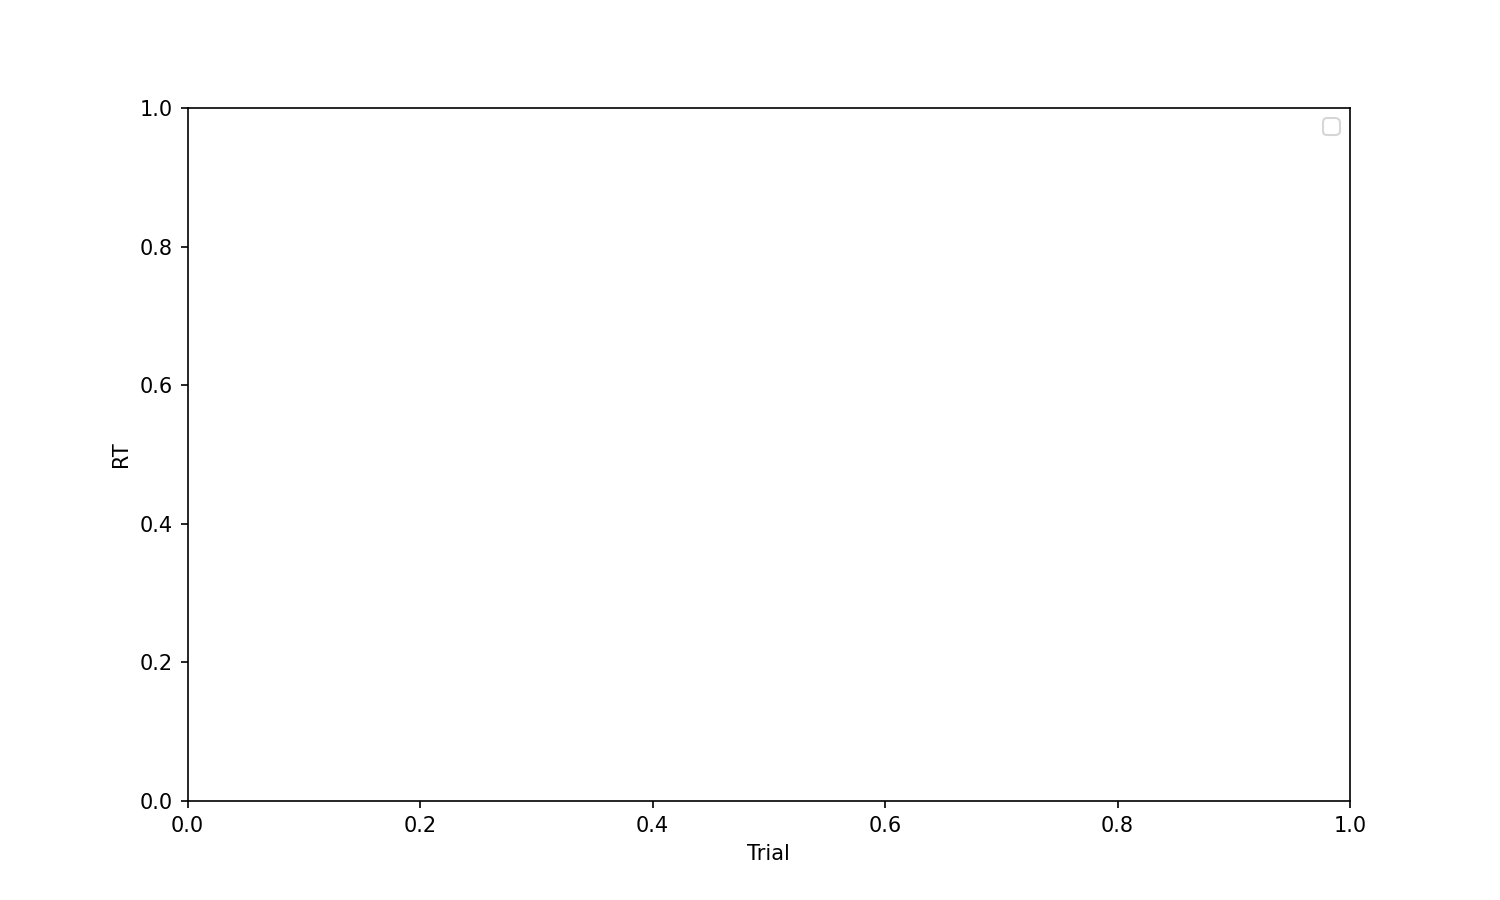
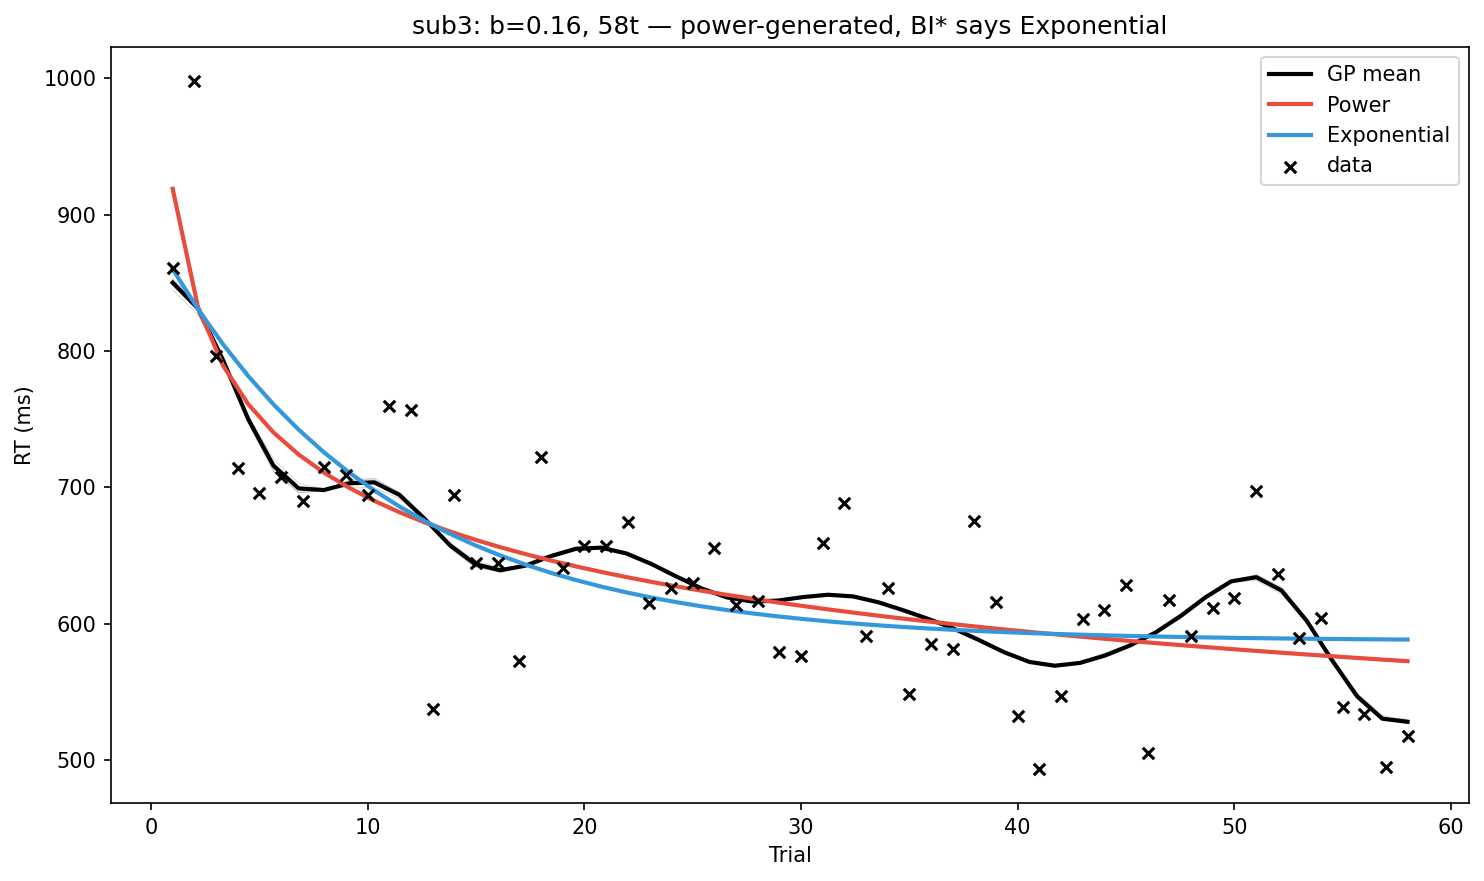
hmc attempts

diff --git a/experiments/practice_EvansEtAL/diag_hmc.py b/experiments/practice_EvansEtAL/diag_hmc.py
@@ -1,0 +1,122 @@
+"""HMC diagnostic: sub0 (correct) vs sub3 (wrong under MAP)."""
+import numpy as np
+import torch
+import sys
+import matplotlib
+matplotlib.use('Agg')
+import matplotlib.pyplot as plt
+from pathlib import Path
+
+sys.path.insert(0, str(Path(__file__).resolve().parent.parent.parent))
+
+from candidates import build_core_candidates
+from kernels import (
+    PRACTICE_CONFIGS, build_kernel, build_likelihood,
+    get_kernel_builder, get_likelihood_builder,
+)
+from bistar_gp.model import build_model
+from bistar_gp.fit import fit_map, fit_hmc
+from bistar_gp.bms_star import (
+    extract_gp_predictives, compute_G_matrix, GPPosteriorSample,
+)
+from run import generate_demo_data, normalize
+
+curves = generate_demo_data(50)
+
+for i in [0, 3]:
+    print(f"\n{'='*60}")
+    print(f"Subject {i} ({curves[i].n_trials}t)")
+    print(f"{'='*60}")
+
+    curve = curves[i]
+    nc = normalize(curve)
+
+    x_train = torch.tensor(nc.x).double()
+    y_train = torch.tensor(nc.y).double()
+    x_eval_norm = torch.linspace(0, 1, 50).double()
+    x_eval_raw = x_eval_norm.numpy() * (nc.x_max - nc.x_min) + nc.x_min
+
+    # Candidates on raw
+    candidates = build_core_candidates()
+    crs = []
+    for c in candidates:
+        c.fit(nc.x_raw, nc.y_raw)
+        pred = c.predict(x_eval_raw)
+        crs.append(pred)
+        print(f"  {c.name}: a={pred.parameters['a']:.1f} "
+              f"b={pred.parameters['b']:.4f} c={pred.parameters['c']:.1f}")
+
+    # GP with HMC (agnostic)
+    cfg_name = "agnostic"
+    cfg = PRACTICE_CONFIGS[cfg_name]
+    kernels, names = build_kernel(cfg)
+    lik = build_likelihood(cfg)
+    model, lik = build_model(x_train, y_train, kernels, names, lik)
+
+    # MAP first (needed for HMC init)
+    fit_map(model, lik, x_train, y_train, n_iter=300, lr=0.05, verbose=False)
+    print(f"  MAP lengthscale={model.kernel_components[0].base_kernel.lengthscale.item():.4f}")
+
+    # HMC
+    mcmc_samples = fit_hmc(
+        model, lik, x_train, y_train,
+        n_samples=200, n_warmup=100, verbose=True,
+    )
+
+    # Print lengthscale distribution from HMC
+    ls_key = [k for k in mcmc_samples.keys() if 'lengthscale' in k][0]
+    #ls_vals = mcmc_samples[ls_key].numpy()
+    ls_vals = mcmc_samples[ls_key] if isinstance(mcmc_samples[ls_key], np.ndarray) else mcmc_samples[ls_key].numpy()
+    print(f"  HMC lengthscale: mean={ls_vals.mean():.4f} "
+          f"std={ls_vals.std():.4f} "
+          f"range=[{ls_vals.min():.4f}, {ls_vals.max():.4f}]")
+
+    gp_samples = extract_gp_predictives(
+        model, lik, x_train, y_train, x_eval_norm, mcmc_samples,
+        get_kernel_builder(cfg_name), get_likelihood_builder(cfg_name),
+        n_posterior_samples=100,
+    )
+
+    # Denormalize
+    gp_raw = [
+        GPPosteriorSample(
+            mean=s.mean * nc.y_std + nc.y_mean,
+            cov=s.cov * (nc.y_std ** 2),
+            hyperparameters=s.hyperparameters,
+        )
+        for s in gp_samples
+    ]
+
+    # G diagnostics
+    for metric in ["pw_mse", "pw_hellinger", "pw_nll"]:
+        G = compute_G_matrix(gp_raw, crs, metric)
+        winners = np.argmin(G, axis=1)
+        print(f"\n  {metric}:")
+        for j, name in enumerate([cr.name for cr in crs]):
+            col = G[:, j]
+            delta = (G - G.min(axis=1, keepdims=True))[:, j]
+            print(f"    {name}: mean_G={col.mean():.4f} "
+                  f"wins={np.sum(winners == j)}/{len(winners)} "
+                  f"mean_delta={delta.mean():.4f}")
+
+    # Plot
+    fig, ax = plt.subplots(figsize=(10, 6))
+
+    for s in gp_raw[::10]:
+        ax.plot(x_eval_raw, s.mean, color='gray', alpha=0.2, lw=0.5)
+
+    gp_mean = np.mean([s.mean for s in gp_raw], axis=0)
+    ax.plot(x_eval_raw, gp_mean, 'k-', lw=2, label='GP mean (HMC)')
+
+    colors = ['#e74c3c', '#3498db']
+    for cr, col in zip(crs, colors):
+        ax.plot(x_eval_raw, cr.mean, lw=2, label=cr.name, color=col)
+
+    ax.scatter(nc.x_raw, nc.y_raw, c='black', marker='x', s=30, zorder=5, label='data')
+    ax.set_title(f'sub{i} HMC (agnostic) — {curve.n_trials}t')
+    ax.legend()
+    ax.set_xlabel('Trial')
+    ax.set_ylabel('RT (ms)')
+    fig.tight_layout()
+    fig.savefig(f'diag_sub{i}_hmc.png', dpi=150, bbox_inches='tight')
+    print(f"\n  Saved diag_sub{i}_hmc.png")

diff --git a/experiments/practice_EvansEtAL/diag_sub3_only.py b/experiments/practice_EvansEtAL/diag_sub3_only.py
@@ -1,0 +1,95 @@
+"""Visual diagnostic: sub3 (b=0.16, power-generated, called Exponential)."""
+import numpy as np
+import torch
+import sys
+import matplotlib
+matplotlib.use('Agg')
+import matplotlib.pyplot as plt
+from pathlib import Path
+
+sys.path.insert(0, str(Path(__file__).resolve().parent.parent.parent))
+
+from candidates import build_core_candidates
+from kernels import PRACTICE_CONFIGS, build_kernel, build_likelihood
+from bistar_gp.model import build_model
+from bistar_gp.fit import fit_map
+from bistar_gp.bms_star import compute_G_matrix, GPPosteriorSample
+from run import generate_demo_data, normalize, extract_map_predictives
+
+curves = generate_demo_data(50)
+curve = curves[0]
+nc = normalize(curve)
+
+x_train = torch.tensor(nc.x).double()
+y_train = torch.tensor(nc.y).double()
+x_eval_norm = torch.linspace(0, 1, 50).double()
+x_eval_raw = x_eval_norm.numpy() * (nc.x_max - nc.x_min) + nc.x_min
+
+# Candidates on raw
+candidates = build_core_candidates()
+crs = []
+for c in candidates:
+    c.fit(nc.x_raw, nc.y_raw)
+    crs.append(c.predict(x_eval_raw))
+    print(f"{c.name}: a={c.predict(x_eval_raw).parameters['a']:.1f} "
+          f"b={c.predict(x_eval_raw).parameters['b']:.4f} "
+          f"c={c.predict(x_eval_raw).parameters['c']:.1f}")
+
+# GP (agnostic)
+cfg = PRACTICE_CONFIGS["agnostic"]
+kernels, names = build_kernel(cfg)
+lik = build_likelihood(cfg)
+model, lik = build_model(x_train, y_train, kernels, names, lik)
+fit_map(model, lik, x_train, y_train, n_iter=300, lr=0.05, verbose=False)
+
+print(f"GP lengthscale={model.kernel_components[0].base_kernel.lengthscale.item():.4f}")
+print(f"GP outputscale={model.kernel_components[0].outputscale.item():.4f}")
+print(f"GP noise={lik.noise.item():.4f}")
+
+gp_samples = extract_map_predictives(
+    model, lik, x_train, y_train, x_eval_norm, n_samples=100
+)
+
+# Denormalize
+gp_raw = [
+    GPPosteriorSample(
+        mean=s.mean * nc.y_std + nc.y_mean,
+        cov=s.cov * (nc.y_std ** 2),
+        hyperparameters=s.hyperparameters,
+    )
+    for s in gp_samples
+]
+
+# Plot
+fig, ax = plt.subplots(figsize=(10, 6))
+
+# GP draws (thin)
+for s in gp_raw[::10]:
+    ax.plot(x_eval_raw, s.mean, color='gray', alpha=0.3, lw=0.5)
+
+# GP mean of means
+gp_mean = np.mean([s.mean for s in gp_raw], axis=0)
+ax.plot(x_eval_raw, gp_mean, 'k-', lw=2, label='GP mean')
+
+# Candidates
+colors = ['#e74c3c', '#3498db']
+for cr, col in zip(crs, colors):
+    ax.plot(x_eval_raw, cr.mean, lw=2, label=cr.name, color=col)
+
+# Raw data
+ax.scatter(nc.x_raw, nc.y_raw, c='black', marker='x', s=30, zorder=5, label='data')
+
+ax.set_title(f'sub3: b=0.16, {curve.n_trials}t — power-generated, BI* says Exponential')
+ax.legend()
+ax.set_xlabel('Trial')
+ax.set_ylabel('RT (ms)')
+fig.tight_layout()
+fig.savefig('diag_sub3_visual.png', dpi=150, bbox_inches='tight')
+print("Saved diag_sub3_visual.png")
+
+# Also print x/y ranges for sanity
+print(f"x_eval_raw: [{x_eval_raw.min():.1f}, {x_eval_raw.max():.1f}]")
+print(f"y_raw: [{nc.y_raw.min():.1f}, {nc.y_raw.max():.1f}]")
+print(f"GP mean range: [{gp_mean.min():.1f}, {gp_mean.max():.1f}]")
+print(f"Power pred range: [{crs[0].mean.min():.1f}, {crs[0].mean.max():.1f}]")
+print(f"Exp pred range: [{crs[1].mean.min():.1f}, {crs[1].mean.max():.1f}]")
